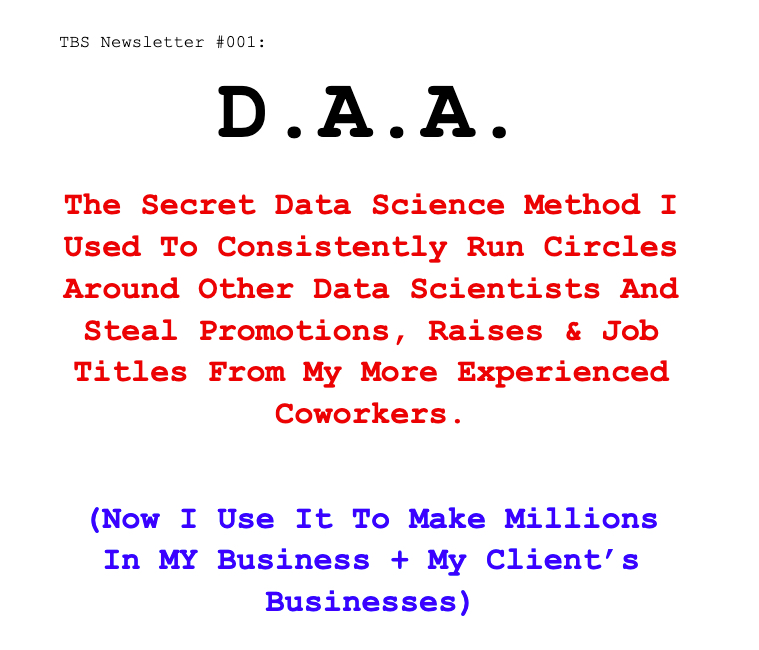
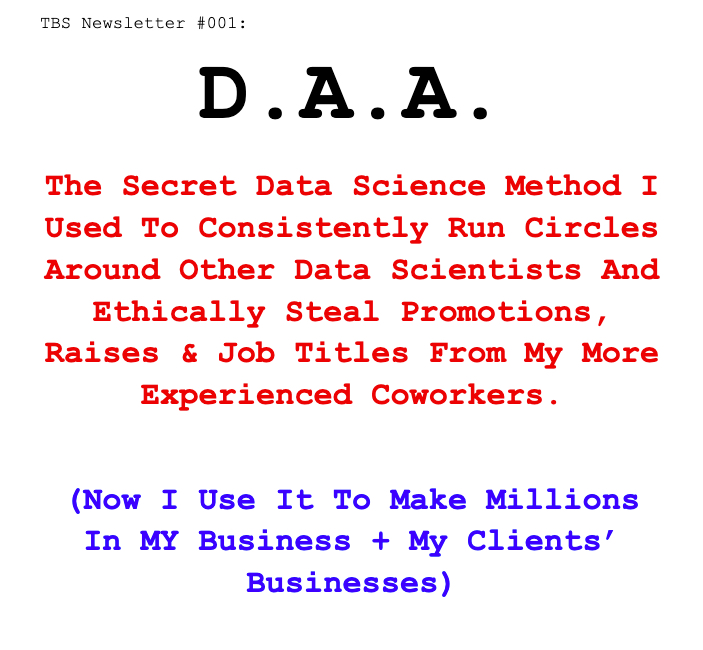
DAA Method - Version 2

Changed region(s): [[0.0597, 0.2462, 0.9559, 0.6769], [0.0896, 0.7385, 0.926, 0.9538], [0.0597, 0.0308, 0.6871, 0.2154]]

diff --git a/_posts/2023-03-01-the-daa-method.md b/_posts/2023-03-01-the-daa-method.md
@@ -2,7 +2,7 @@
 layout: post
 title: "The D.A.A. Method"
 date: 2023-03-01T00:00:00.000-05:00
-excerpt: "The Secret Data Science Method I Used To Consistently Run Circles Around Other Data Scientists And Steal Promotions, Raises & Job Titles From My More Experienced Coworkers."
+excerpt: "The Secret Data Science Method I Used To Consistently Run Circles Around Other Data Scientists And Ethically Steal Promotions, Raises & Job Titles From My More Experienced Coworkers."
 author: Matt Dancho
 categories:
 - tbs-newsletter
@@ -15,78 +15,38 @@ image_preview: "/assets/daa_framework_thumb.jpg"
 [TBS Newsletter #001: The D.A.A. Method](https://university.business-science.io/courses/the-business-scientist-newsletter/lectures/45353307)
 
 <h3 class="text-center">
-If I wanted to handcuff a business and drive it into the ground- you know what I would do? 
-</h3> 
+If I wanted to make more money as a data scientist, you know who I would NOT ignore- The C-suite.
+</h3>
+
+The C-suite is YOUR ticket to getting promotions, raises, and new positions. 
 
 
-I would take all of the people that are out-of-touch, aren’t-in-the-field, and don’t really know what’s going on in the business…
-
-**… and put them in charge of the company.** 
-
-You may know these people as the C-Suite. 
-
-I call them the **“Success-Prevention Committee.”**
-
-Decisions by committee are slow, tumultuous, inefficient, and compromised. 
+But, most data scientists (including me) struggle with enlisting their help, gaining their trust, and getting them to move one iota. (and **this kills** your career progression).
 
 
-This often results in problems like… massive layoffs, missed deadlines, bad quarters, and stock prices dropping. 
-
-
-That’s right. When a stock drops, you can thank the C-Suite. And what’s worse is, the C-Suite will blame their failures on “the economy” and begin firing people. 
+The good news is I solved that problem 10 years ago with what I’m going to teach you today. 
 
 
 <h3 class="text-center">
-“Matt, Are You Telling Me Every Successful Fortune 1000 Company In The World Is Running Their Business Wrong?”
+The Story Behind D.A.A.
 </h3>
 
-**Absolutely.** 
+A long time ago in a galaxy far, far away, (back when I dreamed of having a “great corporate job”) I was working at a company called **Bonney Forge**. 
 
-
-However, the good news is, the C-suite is YOUR ticket to getting promotions, raises, and new positions. 
-
-
-Better yet, they have one fatal “override” button: **they’re paid bonuses based on the company’s profits.**
-
-So guess what happens if you increase revenue? You increase their bonuses. And what happens when they know YOU’RE the one giving them a bigger paycheck? 
-
-
-Well, they’ll want you to work even more. To show their gratitude, they’ll give you a better title, unlock access to more resources, and usually hand you more money. 
-
-
-Think about it, if you can convince the C-Suite to implement your ideas on a grand scale… they look good in front of shareholders… their bonuses go up… 
-
-<h3 class="text-center">
-<em>
-And YOU Get A Raise.
-</em>
-</h3>
-
-Oh, what’s that? You don’t know how to get ahold of the C-Suite’s attention? 
-
-
-That’s fine because I solved that problem 10 years ago with what I’m going to teach you today. 
-
-
-A long time ago, (back when I dreamed of having a “great corporate job”) I was working at a company called **Bonney Forge.** My title was something like “Sale Engineering Manager”... but I was acting as a **business analyst.**
-
+My official title was “Sales Engineering Manager”... but I was acting as a **Business Analyst** while managing a small team of salespeople.
 
 My job was to find business insights, save money, and generate more revenue. 
 
-And I did just that.
 
+But, I made one *fatal* mistake. 
 
-Every month or so, I would work with my team to find AMAZING business insights, put together a report, march into my boss’s office (the V.P. of Sales), and slam it on her desk. (And of course, I was confident she would love it.) 
-
+Every month or so, I would work with my team to find AMAZING business insights, put together a report, march into my boss’s office (the V.P. of Sales), and slam it on her desk. (And of course, I was confident she would love it.)
 
 Being the naive, doe-eyed employee I was… I expected her to read it, be blown away immediately, and call the higher-ups & executives into a meeting about what my team had found.
 
-
 In fact, every time we had a meeting, I would go on and on about my findings. I’d give speeches. I’d explain the problems I’m solving. I’d show her the benefits.
 
-
-I’d tell her we need to shift our focus to this new way of making money and tell her how amazing my new “idea” is. 
-
+I’d tell her we need to shift our focus to this new way of making money and tell her how amazing my new “idea” is.
 
 And you know what I would get in return? 
 
@@ -99,49 +59,122 @@ Week after week, month after month, I did this little dance. I found ways to sav
 I’m working 50-60 hours a week creating reports, doing analysis…
 
 <h3 class="text-center">
-<em>
-… all for my boss to take credit and do nothing with it.
-</em>
+… All for my boss to do nothing with it.
 </h3>
 
 So I got smart. I created a solution called: **D.A.A.**
 
-**It’s one of the building blocks I used to go from an unofficial Business Analyst to the Director of Sales & Marketing at Bonney Forge.**
+**It’s one of the building blocks I used to go from an unofficial Business Analyst to the Director of Sales & Marketing at Bonney Forge.** 
+
 
 The best part? Anyone can use this to become a rockstar data scientist. 
 
 
-Let me show you how.
+Before we dive into the solution, the "fatal mistake" I made month in and month out was that…
 
-So before we dive into the DAA, there’s something you should know. First, there are only 3 ways a business drives revenue:  
+<h3 class="text-center">
+Companies DON’T Want Reports; They WANT Results
+</h3>
+
+So every time I went into my boss’s office. She was expecting an update on how I saved the company money.
+
+
+Except, what I was actually giving her was: **More work.** 
+
+
+And, that’s why nothing ever got done. So to change that, I needed to change my approach. 
+
+
+And it started by taking matters into my own hands.
+
+Before stumbling onto the DAA method, I went through a lot of pain. 
+
+
+I’m talking about years of getting reports stuffed in drawers. And, struggling to communicate with leadership. 
+
+
+But, the key change was building my first business automation. (If you haven’t guessed it yet, the 2nd “A” in D.A.A. is for Automation. 
+
+
+Automation was the key to getting their buy-in.
+
+
+It’s because the business automation turned into... 
+
+
+<h3 class="text-center">
+A $15,000,000 Business Improvement.
+</h3>
+
+Imagine that you are overseeing a team of 5 people. And your small group brings in on average $3,000,000 per year of revenue.
+
+
+Then you make a few changes. Clean up some things. Better priortize…
+
+
+...And your company now is making $15,000,000 per year.
+
+
+That’s what your boss *actually* wants. 
+
+
+And that’s *exactly* what happened to me in 2015.  
+
+
+I applied the D.A.A. Method to THEIR business. And I got promoted 3 times in 2 years. 
+
+
+**My salary went from $75,000 to $155,000 per year.**
+
+
+And more importantly, they started listening to me. 
+
+
+Now, fast forward to 2021. I duplicated my *multi-million-dollar* success- This time with my own business.
+
+<h3 class="text-center">
+Here’s How I Applied D.A.A. To Build A $3,000,000 Revenue Stream (For My OWN Online Business)
+</h3>
+
+I want you to know that D.A.A. is not just a one-trick poney. D.A.A. is a time-proven, successful method for me. 
+
+
+In fact, I used it most recently in 2021 to help me grow revenue from email subscribers. 
+
+Here’s how. 
+
+<h3 class="text-center">
+How Online Businesses “Work”
+</h3>
+
+
+First, there are only 3 ways a business drives revenue:  
 
 
 1. Acquiring New Customers
 2. Ascending Existing Customers
-3. Repeat Customers
+3. Getting Repeat Customers To Buy Again
 
-#### Acquiring new customers...
+**Acquiring new customers** means someone new bought something. (Think of when you buy a new book or course. That Author just acquired you as a customer.)
 
-...Means someone new bought something. (Think of when you buy a new book or course. That Author just acquired you as a customer.)
 
-#### Ascending an existing customer... 
+**Ascending an existing** customer means you’re getting an old customer to spend more money with you. (usually with more expensive purchases.) (If an Author gets you to read the book and then come to a paid seminar, they’ve ascended you.)
 
-...Means you’re getting an old customer to spend more money with you. (usually with more expensive purchases.) (If an Author gets you to read the book and then come to a paid seminar, they’ve ascended you.)
 
-#### Repeat customers... 
-
-...Means you have someone on subscription. (Think of Netflix or Hulu.)
-
+**Repeat customers** means you have someone on subscription. (Think of Netflix or Hulu.)
 
 <h3 class="text-center">
-So <em>most</em> businesses have some form of a “list”.
+To help, <em>most</em> businesses have some form of a “list”.
 </h3>
+
 
 That’s a list of people who have either:
 
+
 1. Signed up for a newsletter
 2. Bought something
-3. Told the business they might be interested in buying something
+3. Told the business they *might* be interested in buying something
+
 
 Before email was around, people had customer lists in the form of OLD SCHOOL spreadsheets typed out by hand on typewriters.
 
@@ -160,20 +193,24 @@ Because…
 Different People Are Interested In Different Things
 </h3>
 
+
 If someone is brand new to data science, they’re going to buy beginner courses.
 
 
 If someone has been a data scientist for 10 years, they’re going to buy advanced courses. 
-
 
 If someone is brand new to my list, they may not buy ANYTHING for months. And if they get annoyed with my emails, they’ll unsubscribe. 
 
 
 Because of these problems, you have to segment your company’s list based on customer information. 
 
-**The easiest way to make more money is to match the right customer to the right products, also known as “customer segmentation”.**
 
-What’s great about customer segmentation and databases is we can use data science. 
+**The easiest way to make more money** is to **match the right customer** to the **right products**, also known as **“customer segmentation”**.
+
+
+
+What’s great about customer segmentation and databases is we can use data science.
+
 
 <h3 class="text-center">
 So in early 2021, I made a Customer Segmentation model to determine which customers I should send sales emails to.
@@ -189,10 +226,9 @@ Which means I was doing the OPPOSITE of acquiring new customers, I was driving t
 
 **On the other hand**, not sending emails to the **“ready-to-buy” customers** resulted in a cost of about $2,000 per missed customer.
 
-
 **The question was, could I optimize this process to grow the business?**
 
-Well, I solved this business problem using the DAA formula.
+Well, I solved this business problem using the D.A.A. Method.
 
 <h3 class="text-center">
 TIME FOR DATA SCIENCE
@@ -200,24 +236,30 @@ TIME FOR DATA SCIENCE
 
 There’s a dead-simple formula that I’ve used to make my company $3,000,000+ in revenue through business process automation.
 
-It’s called the **DAA Formula**, and it stands for:
+![D.A.A. Method](/assets/daa_method.jpg)
+
+<p class="text-center date">
+Fig.1: D.A.A. Method
+</p>
+
+**It’s called the D.A.A. Method**, and it stands for:
 
 * Define
 * Analyze
 * Automate
 
 
-Here’s how I used it to automate a business process that contributed to a $3,000,000+ revenue stream for my business, Business Science.
+Here’s exactly how I used it to automate a business process that made $3,000,000+ in revenue for my business, Business Science.
 
-And, I made *THIS* business automation in just 30 days.
+And, I made this business automation in just 30 days.
 
-![LEAD SCORING APP](/assets/active_leadscore_app.jpg)
+![Email Lead Scoring App](/assets/active_leadscore_app.jpg)
 
-<p class='text-center date'>
-Fig.1: Lead Scoring App
+<p class="text-center date">
+Fig.2: Lead Scoring App
 </p>
 
-You can check out a demo version of the [Lead Scoring App here](https://business-science.shinyapps.io/active_leadscore/).
+You can check out a demo version of the [Lead Scoring App here](https://business-science.shinyapps.io/active_leadscore) (the product of the D.A.A. applied to my Customer Segmentation problem).
 
 <h3 class="text-center">
 HOW DID <em>THIS</em> HAPPEN?
@@ -232,25 +274,27 @@ I validated this by splitting the database up into groups - subscribed less than
 Unsubscribe rates shot up in the “less than 30 days” group BUT I still got some sales from both groups.
 
 
-So I couldn’t ignore the findings - **Nurture vs Ready-to-Buy was a thing.** 
+So I couldn’t ignore the findings - **Nurture vs Ready to Buy was a thing.** 
 
-And then I came up with an idea. I put it on paper by defining the process to apply data science to this business problem. 
 
+And then I came up with an idea. I put it on paper by defining the process to apply data science to this business problem.
 
 ### Step 1: DEFINE the ideal Business Process
 
+The first step was defining the ideal business process in terms of inputs, process steps, and outputs. This is what you think you need to solve the problem.
 
-The first step was defining the ideal business process in terms of inputs, process steps, and outputs. This is what you *think* you need to solve the problem.
 
-The process I came up with looks like this (for my particular “email unsubscription” problem).
+The process I came up with looks like this (for my particular “customer segmentation” problem).
 
-![Define the Process](/assets/define_the_process.jpg)
+![D.A.A. Method - Step 1 - Define the Process](/assets/define_the_process.jpg)
 
-<p class='text-center date'>
-Fig. 2: Defining the Process
+<p class="text-center date">
+Fig. 3: Defining the Process
 </p>
 
-### Step 1A. Inputs (Data you think you need)
+
+
+#### Step 1A. Inputs (Data you *think* you need)
 
 The inputs to the ideal process were CSV files that came from 2 databases, namely a MailChimp Email Database and a Teachable Transactions Database.
 
@@ -260,16 +304,15 @@ These datasets gave me:
 
 2. **Descriptive customer data** (The email database contained behavioral data on what the customer was doing e.g. interest tags, webinars attended, email open rates, etc).
 
-### Step 1B. Process Steps (What you think you have to do)
 
-Next, I planned out the process. Here are the exact steps I took... **[SUBSCRIBE TO CONTINUE](https://university.business-science.io/p/the-business-scientist-newsletter)**
+#### Step 1B. Process Steps (What you *think* you have to do)
+
+Next, I planned out the process. **Here are the exact steps I took**... **[SUBSCRIBE TO CONTINUE](https://university.business-science.io/p/the-business-scientist-newsletter)**
 
 <h3 class="text-center">
 <a href="https://university.business-science.io/p/the-business-scientist-newsletter">
 Subscribe to "The Business Scientist Newsletter" to get the FULL article here.</a> 
 </h3>
 <h4 class="text-center">
-(and discover how to run circles around other data scientists, steal promotions, raises and job titles from your more experienced coworkers, and make millions for your company in the process.)
+(and discover how to run circles around other data scientists, ethically steal promotions, raises and job titles from your more experienced coworkers, and make millions for your company in the process.)
 </h4>
-
-
